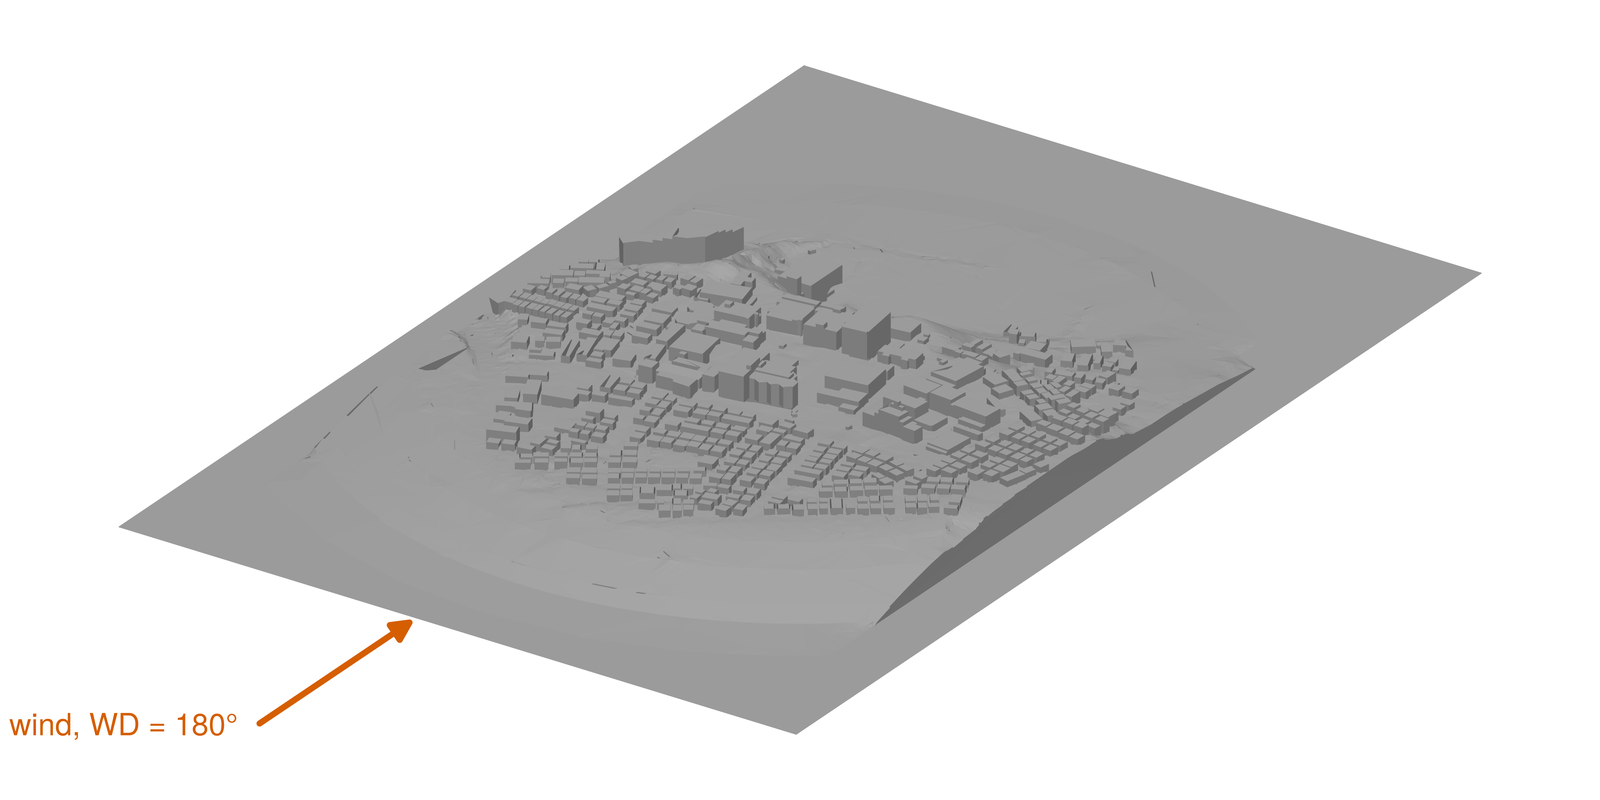
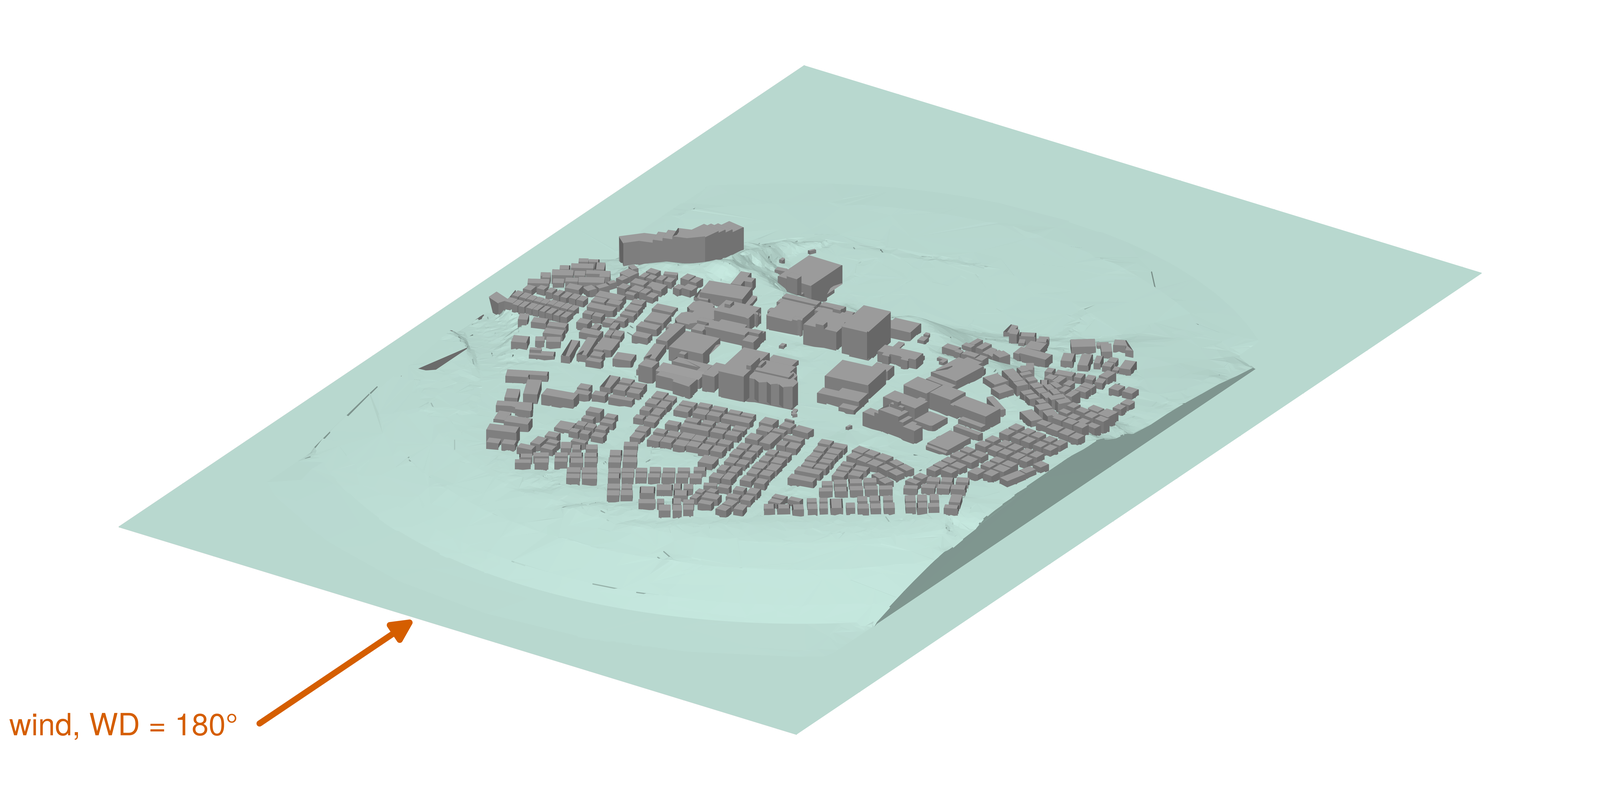
Case F and M renders: terrain in a light green tint, buildings in grey
The terrain and the buildings of Cases F and M are one welded mesh; building_mask() separates them by connectivity
(walls, and the roofs only walls reach, against the ground patch). Rebuilt in the pinned image.

Changed region(s): [[0.0625, 0.0625, 0.9375, 0.9375]]

diff --git a/validation/render_geometry.py b/validation/render_geometry.py
@@ -48,6 +48,7 @@ WIND = ps.VERMILLION
 GRID = ps.FOOTPRINT
 BODY = np.array(to_rgb(ps.FOOTPRINT_FOCUS))   # neutral massing, shaded per face
 ACCENT = np.array(to_rgb(ps.BLUE))            # the subject of the case
+TERRAIN = 0.22 * np.array(to_rgb(ps.GREEN)) + 0.78   # the ground of Cases F and M: a light tint of ultraplot's green, apart from the grey buildings
 EDGE = ps.SURFACE
 
 # One camera for every case. The azimuth is negative so that +x (the wind at WD = 0) runs left to right on
@@ -136,6 +137,60 @@ def grow_walls(tris, tall, tol=1e-6):
     return tall
 
 
+def building_mask(tris, tol=1e-6, wall_nz=0.1):
+    """True for the triangles of buildings in a terrain-and-buildings mesh (Cases F and M, one welded surface).
+
+    Walls are the vertical facets. The other facets form land patches, joined across edges that no wall interrupts: the ground is one big
+    patch (slopes and ramps join its terraces); a roof is a small patch that walls meet at their top edge (the floor of a pit is a small patch they meet at their foot). A wall is a building's
+    unless every wall facet of its plane that has a free top edge meets ground there (a cliff, or the side of a pit)."""
+    tris = np.asarray(tris, float)
+    n = np.array([_normal(t) for t in tris])
+    wall = np.abs(n[:, 2]) < wall_nz
+    scale = 1.0 + np.abs(tris).max()
+    key = lambda v: tuple(np.round(v / (tol * scale)).astype(np.int64))  # noqa: E731
+    edges = {}
+    for t in range(len(tris)):
+        k = [key(tris[t, i]) for i in range(3)]
+        for a, b in ((0, 1), (1, 2), (2, 0)):
+            edges.setdefault(tuple(sorted((k[a], k[b]))), []).append((t, a, b))
+    nbrs = [[] for _ in range(len(tris))]   # (neighbour, is the shared edge the top edge of this wall facet)
+    for owners in edges.values():
+        if len(owners) == 2:
+            for (t, a, b), (o, _, _) in zip(owners, owners[::-1]):
+                top = bool(wall[t]) and 0.5 * (tris[t, a, 2] + tris[t, b, 2]) > tris[t, :, 2].mean()
+                nbrs[t].append((o, top))
+
+    def patches(joined):
+        label = -np.ones(len(tris), int)
+        for seed in range(len(tris)):
+            if label[seed] < 0 and joined(seed, seed):
+                label[seed] = seed
+                stack = [seed]
+                while stack:
+                    t = stack.pop()
+                    for o, _ in nbrs[t]:
+                        if label[o] < 0 and joined(t, o):
+                            label[o] = seed
+                            stack.append(o)
+        return label
+
+    land = patches(lambda t, o: not wall[t] and not wall[o])
+    plane = patches(lambda t, o: wall[t] and wall[o] and abs(float(n[t] @ n[o])) > 0.9999)
+    plan = 0.5 * np.abs(n[:, 2]) * np.linalg.norm(np.cross(tris[:, 1] - tris[:, 0], tris[:, 2] - tris[:, 0]), axis=1)
+    area = {p: plan[land == p].sum() for p in set(land[land >= 0])}
+    ground = {p for p, a in area.items() if a > 0.02 * sum(area.values())}   # no building roof is 2 % of the domain
+    ground_land = np.isin(land, list(ground))
+    meets, roofs = {}, set()   # wall plane -> [meets a roof at a top edge, meets the ground at a top edge]; patches met at a top edge
+    for w in np.flatnonzero(wall):
+        for o, top in nbrs[w]:
+            if top and not wall[o]:
+                meets.setdefault(plane[w], [False, False])[int(ground_land[o])] = True
+                if not ground_land[o]:
+                    roofs.add(land[o])
+    cliff = np.array([wall[t] and meets.get(plane[t], [False, False]) == [False, True] for t in range(len(tris))])
+    return (wall & ~cliff) | np.isin(land, list(roofs))
+
+
 def draw(ax, groups, edges):
     """groups: [(triangles, base colour)], painted back to front across all groups together."""
     polys, cols = [], []
@@ -204,10 +259,15 @@ def scene(case):
             tall = [b for b in boxes if b["max"][2] > 0.6 * ztop]
             groups = [(boxes_tris([b for b in boxes if b not in tall]), BODY), (boxes_tris(tall), ACCENT)]
         elif case == "F":
+            built = building_mask(tris)
+            ground, tris = tris[~built], tris[built]
             tall = grow_walls(tris, tris[:, :, 2].max(axis=1) > 100.0)   # the high-rise group (full-scale metres)
-            groups = [(tris[~tall], BODY), (tris[tall], ACCENT)]
+            groups = [(ground, TERRAIN), (tris[~tall], BODY), (tris[tall], ACCENT)]
         elif case in ("G", "H", "I"):     # one body, the subject of the case
             groups = [(tris, ACCENT)]
+        elif case == "M":
+            built = building_mask(tris)
+            groups = [(tris[~built], TERRAIN), (tris[built], BODY)]
         else:
             groups = [(tris, BODY)]
         out.append((cfg, groups, "seal" if case in ("F", "M") else case != "E"))
